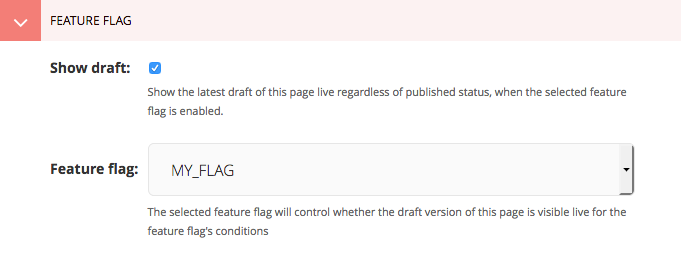
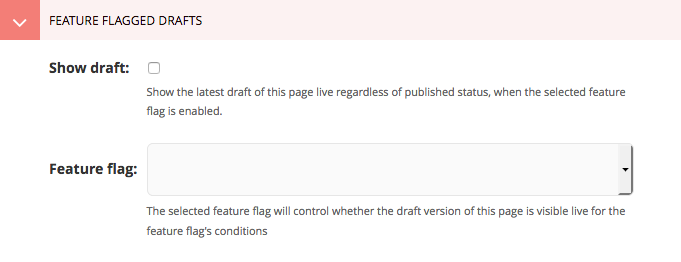
Rename feature flagged drafts settings panel

diff --git a/flags/models.py b/flags/models.py
@@ -52,7 +52,7 @@ class FlaggablePageMixin(models.Model):
     ]
 
     settings_panels = [
-        MultiFieldPanel(flag_panels, 'Feature flag'),
+        MultiFieldPanel(flag_panels, 'Feature flagged drafts'),
     ]
 
     class Meta:
